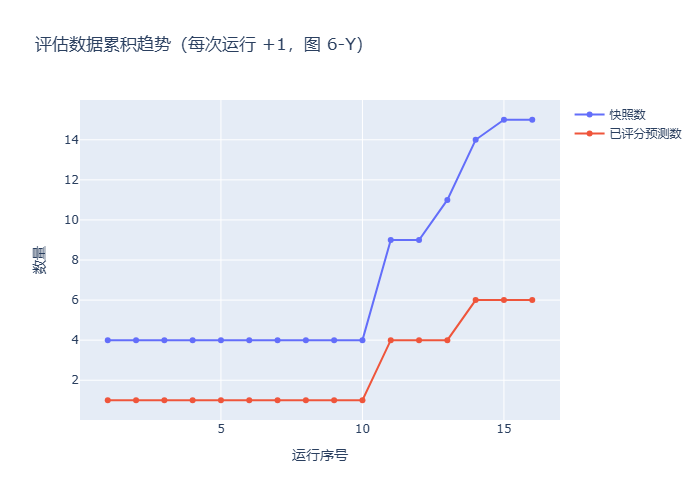
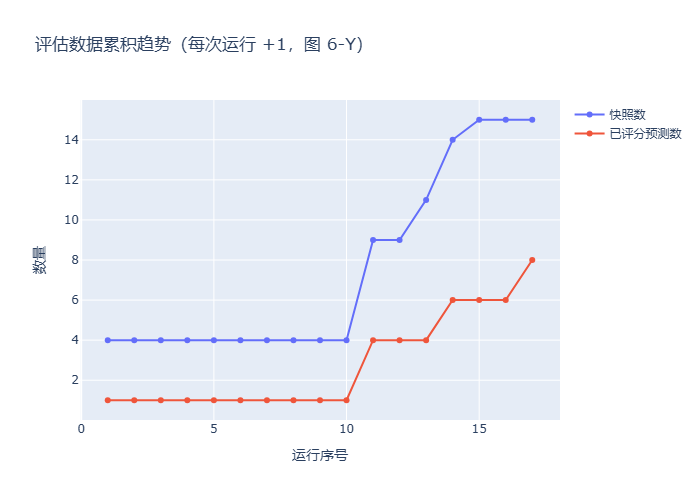
chore(thesis): 提交第6章评估产物（09-21 快照，前向实测 37.5%）
毕设素材此前改了未入库（3 图 + history/metrics/report）。本提交落盘 09-21 决策快照
（15 份 / 2026-08-31~09-21）的评估产物；口径与论文 49.1%(1722/3507) 回测锚定并存
（小样本不推断显著性，与 calibration.py 一致）。避免毕设素材悬空丢失。

diff --git a/thesis/ch6_eval/report.md b/thesis/ch6_eval/report.md
@@ -4,7 +4,7 @@
 - 温度取值范围：[11.4, 81.1]
 - 仓位取值范围：[5, 82]，clamp[5,95] 校验：通过
 - 周期分布：{'修复试探': 7, '主升高潮': 3, '退潮': 3, '修复确认': 2}
-- 预测记录：共 15 条，已评分 6 条，命中率 0.16666666666666666
+- 预测记录：共 15 条，已评分 8 条，命中率 0.375
 
 > 说明：当前为系统上线初期，样本量有限。第6章以「决策闭环功能正确性 + 校准机制设计正确性」为评估主线，
 > 纵向命中率统计作为趋势性证据呈现，**不**对小规模样本做显著性推断（与 calibration.py 小样本不表态的设计一致）。
